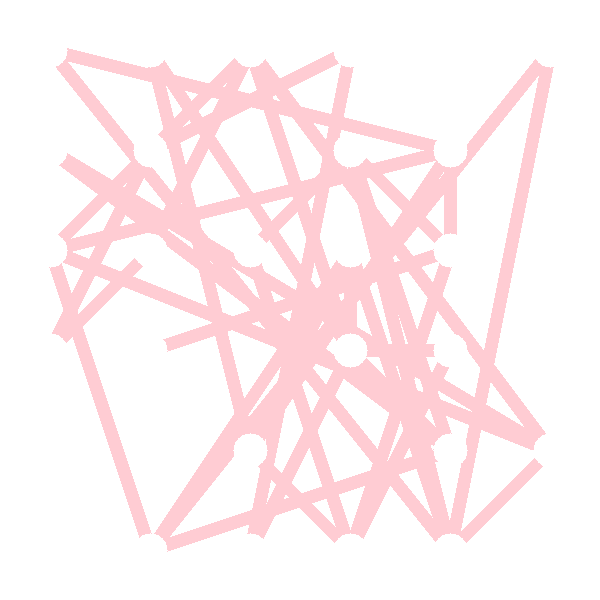
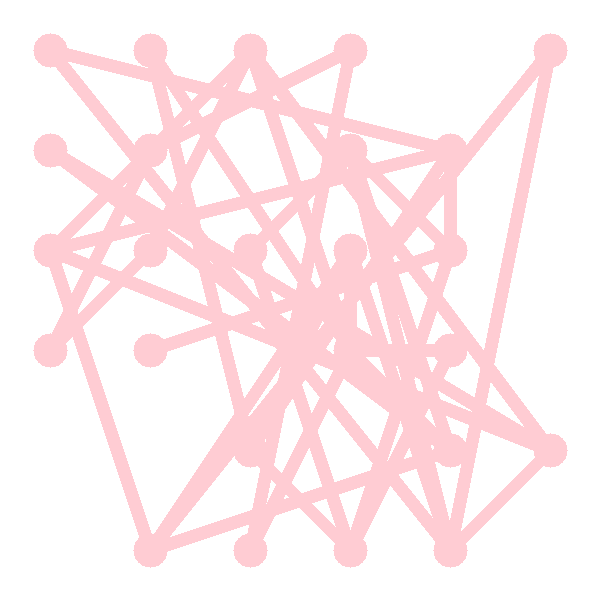
[fix] More elegent.

diff --git a/demo_final.py b/demo_final.py
@@ -1,5 +1,4 @@
 import math
-import numpy as np
 import cv2
 
 from paint_line_if_color import paint_line_if_color
@@ -15,7 +14,6 @@ gray = cv2.cvtColor(img, cv2.COLOR_BGR2GRAY)
 gray = cv2.GaussianBlur(gray, (3, 3), 0)
 
 cv2.imshow("gray", gray)
-# 检测图像中的圆
 
 image = cv2.imread("photos/test.png", cv2.IMREAD_GRAYSCALE)
 
@@ -45,39 +43,35 @@ for i in circles[0, :]:
         if 50 * tmp - 5 < y < 50 * tmp + 5:
             y = 50 * tmp
     points.append((x, y))
-    cv2.circle(img, (x, y), int(r + 2), (255, 255, 255), -1)
+    cv2.circle(img, (x, y), int(r + 2), (211, 204, 255), -1)
 
 # 显示图像
 cv2.imshow("detected circles", img)
 cv2.imwrite("photos/detected_circles_hough.png", img)
 
-# # 边缘检测
-# gray_circles_except = cv2.cvtColor(img, cv2.COLOR_BGR2GRAY)
-# edges = cv2.Canny(gray_circles_except, 50, 150, apertureSize=3)
-# cv2.imshow("edges", edges)
-# cv2.imwrite("photos/edges.png", edges)
-img = cv2.imread("photos/test.png", cv2.IMREAD_UNCHANGED)
-cv2.imshow("raw", img)
-image_info = img.shape
-height = image_info[0]
-width = image_info[1]
-dst = np.zeros((height, width, 3), np.uint8)
-for i in range(height):
-    for j in range(width):
-        (b, g, r) = img[i, j]
-        if b == 102 and g == 55 and r == 243:
-            dst[i, j] = (211, 204, 255)
-        else:
-            dst[i, j] = (b, g, r)
-cv2.imshow("dst", dst)
+# img = cv2.imread("photos/test.png", cv2.IMREAD_UNCHANGED)
+# cv2.imshow("raw", img)
+# image_info = img.shape
+# height = image_info[0]
+# width = image_info[1]
+# dst = np.zeros((height, width, 3), np.uint8)
+# for i in range(height):
+#     for j in range(width):
+#         (b, g, r) = img[i, j]
+#         if b == 102 and g == 55 and r == 243:
+#             dst[i, j] = (211, 204, 255)
+#         else:
+#             dst[i, j] = (b, g, r)
+# cv2.imshow("dst", dst)
 
 for point_1 in points:
     for point_2 in points:
         if point_1 != point_2:
-            if paint_line_if_color(dst, point_1, point_2, [211, 204, 255]) != 0:
+            if paint_line_if_color(img, point_1, point_2, [211, 204, 255]) != 0:
                 print(point_1, point_2)
-                p.append(paint_line_if_color(dst, point_1, point_2, [211, 204, 255]))
+                p.append(paint_line_if_color(img, point_1, point_2, [211, 204, 255]))
 
+img = cv2.imread("photos/test.png", cv2.IMREAD_UNCHANGED)
 for point in p:
     cv2.line(img, point[0], point[1], (0, 255, 0), 2)
 cv2.imshow("result", img)
